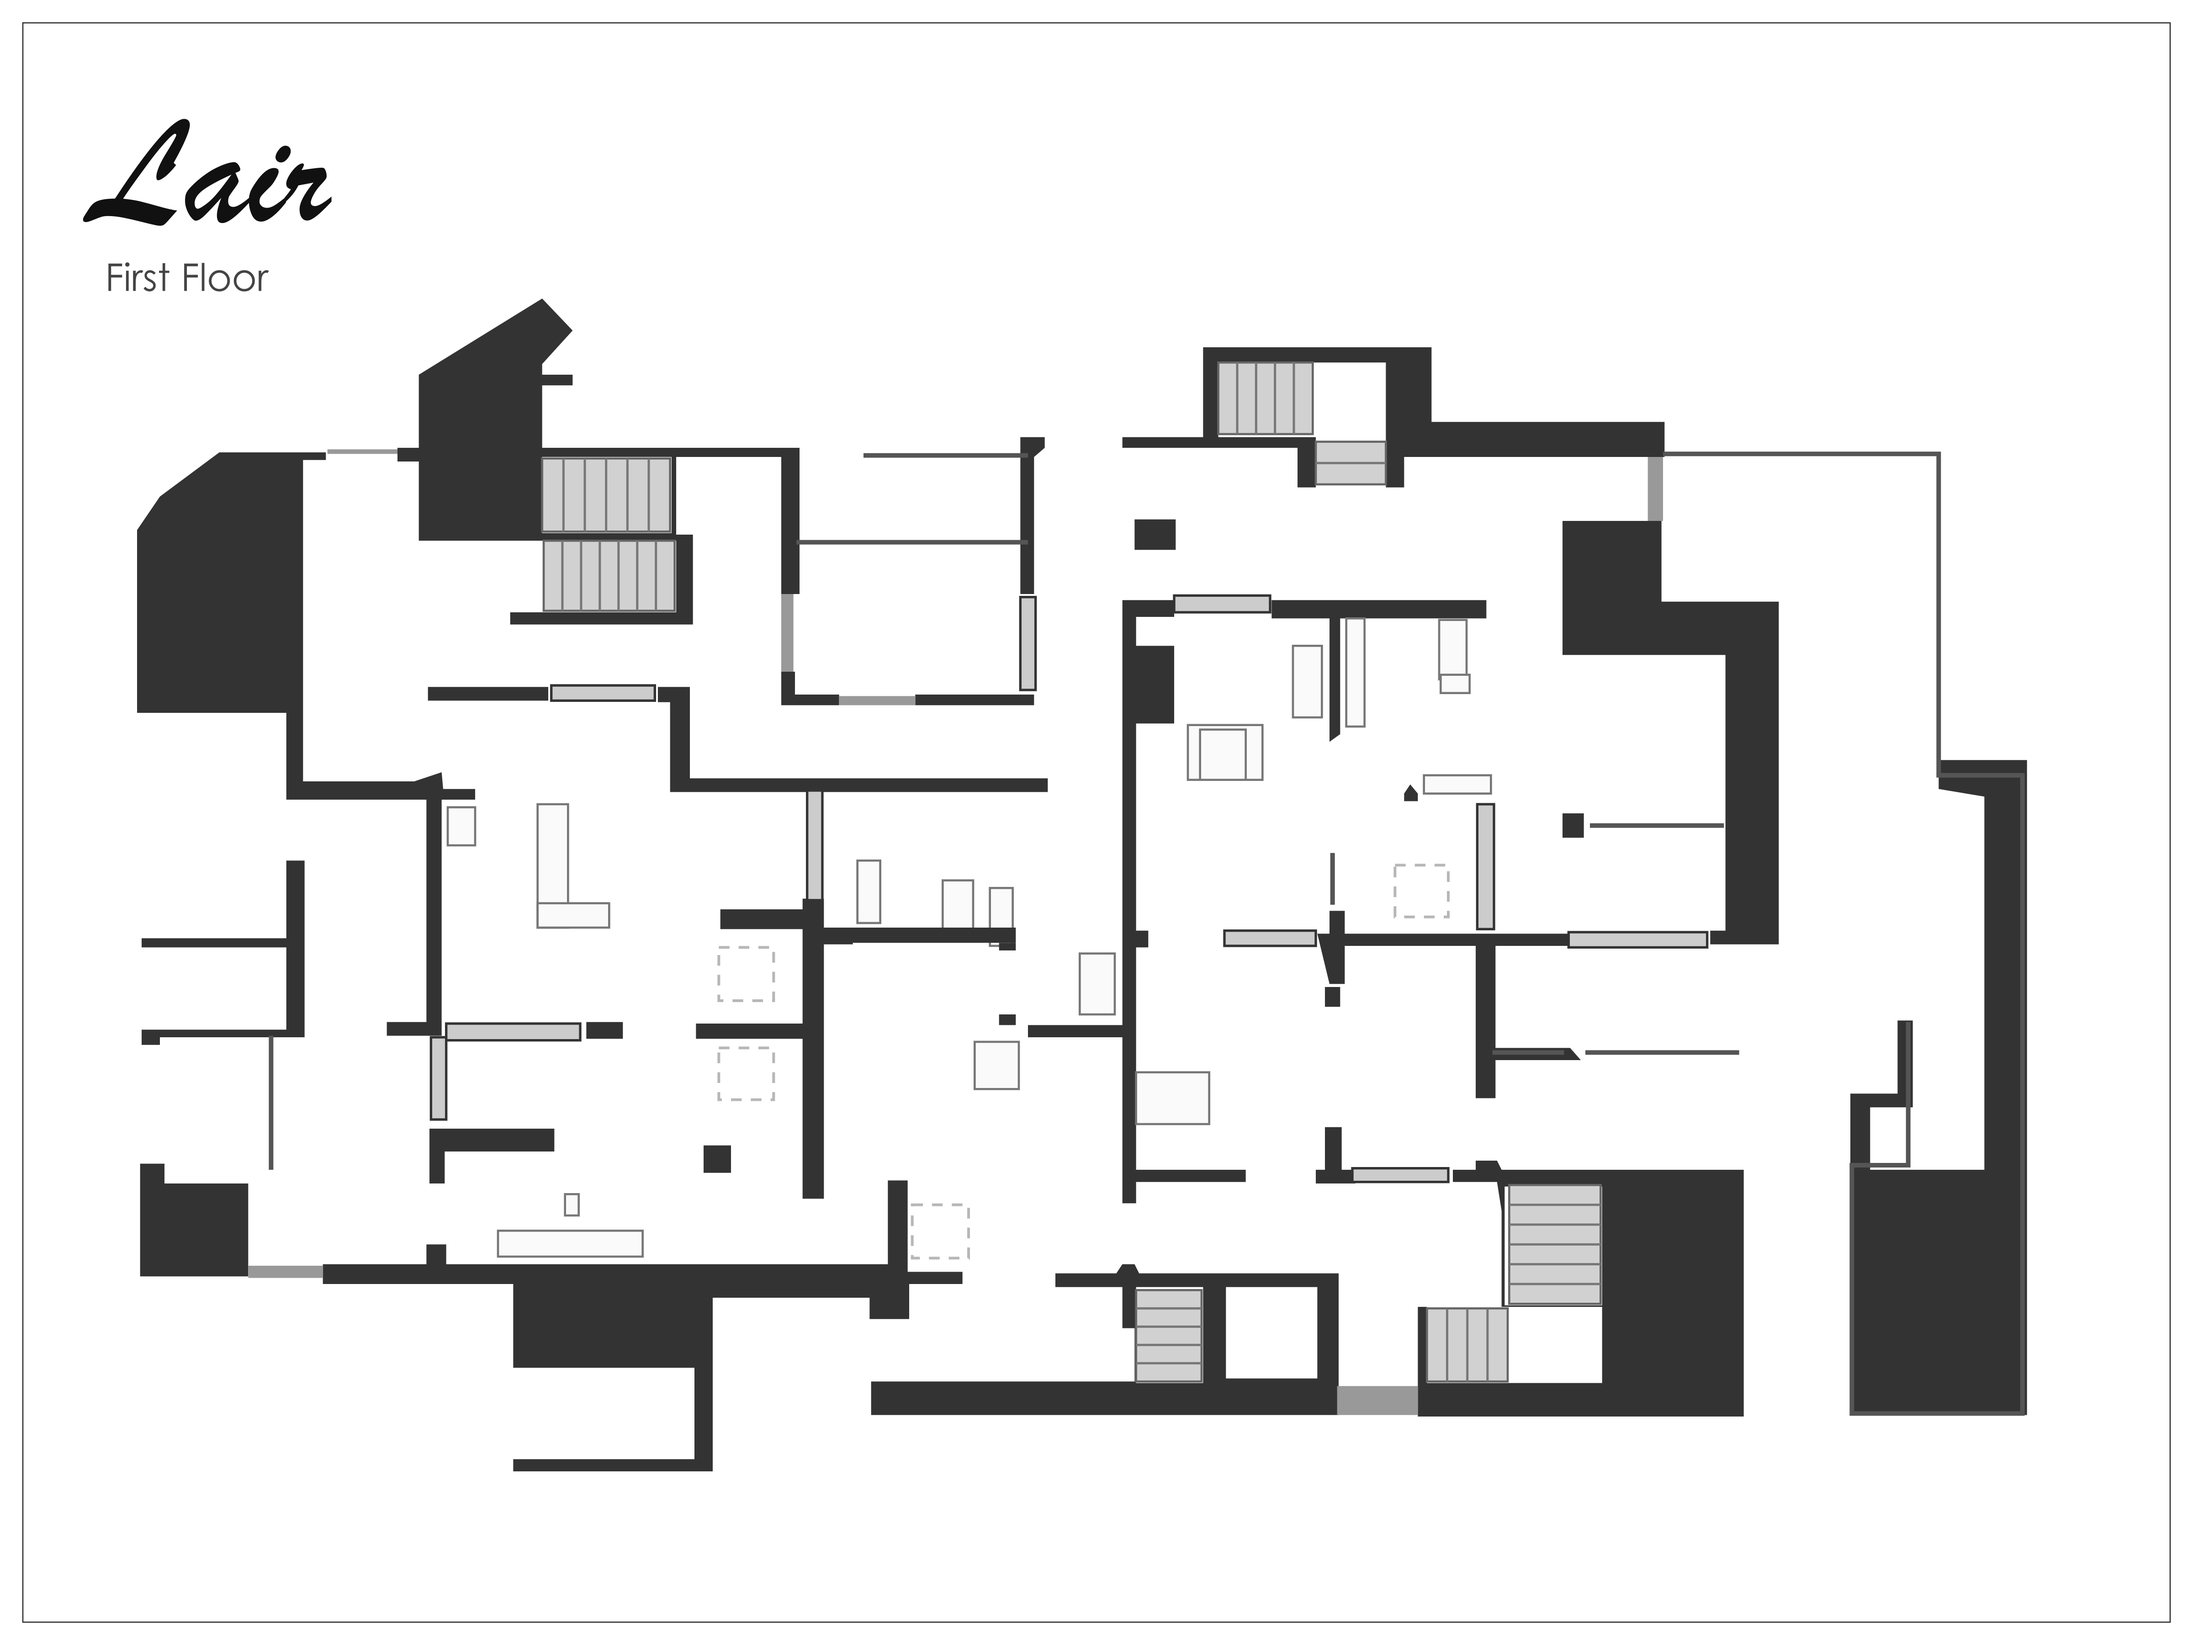
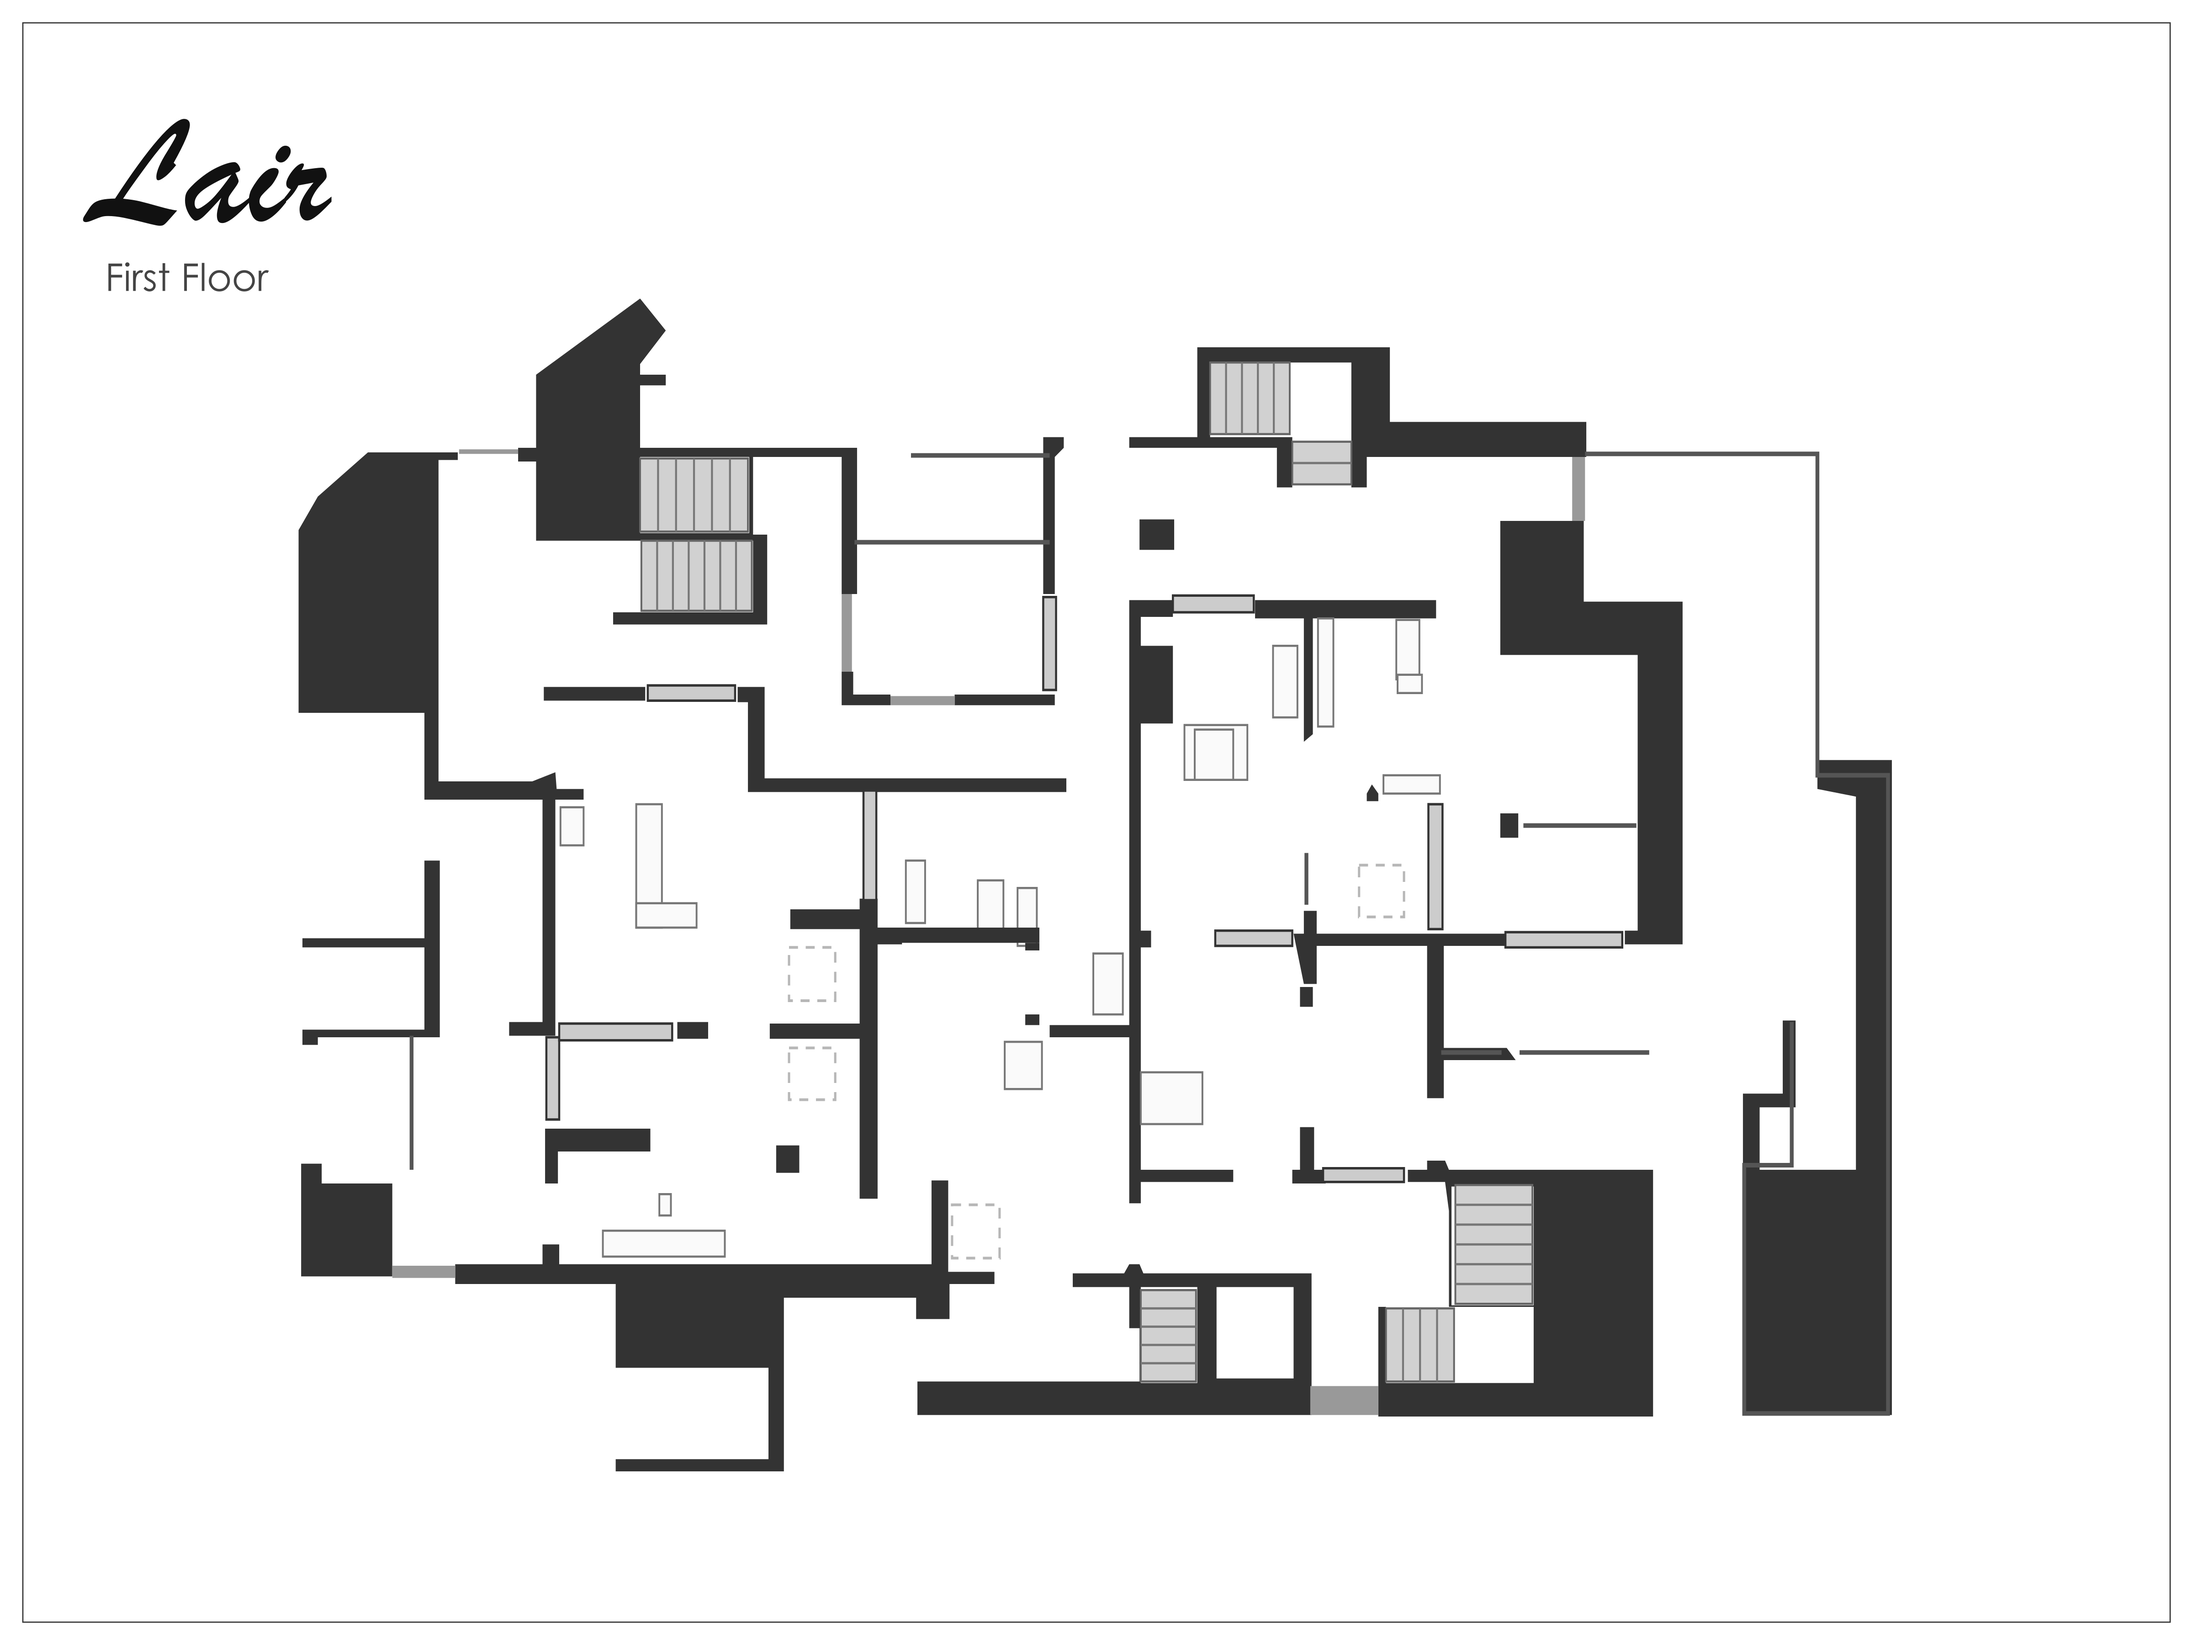
Correct Lair's east-west stretch to one isotropic scale
Replay movement fits the Lair drawings at 64.7 px/m east-west but 54.6 px/m
north-south on all three floors (wall-gap centres and a wall-hit ratio scan
both favour 1.19 over 1.00). The drawing group of each SVG is now scaled
0.843x east-west and centred; heading and frame stay fixed. Callouts move
with the drawing.

diff --git a/docs/content.md b/docs/content.md
@@ -56,6 +56,7 @@ Villaの構造変更は地下のみのため、2階・1階はSternab氏の`Villa
 | マップ | 補正前 | 補正内容 |
 | --- | --- | --- |
 | Fortress | 南北方向が1.42倍に圧縮。2階は1階の0.90倍の縮尺で別の位置。2階南東の階段がない | 両階層のSVGを同じ縮尺（54 px/m、4800×3600）へ変換。2階南東にU字階段を追加 |
+| アジト | 3階層とも東西方向が1.19倍に引き伸ばされていた（縦横の縮尺64.7×54.6 px/m） | 3階層のSVGの図形を東西方向に0.843倍し、54.57 px/mの同一縮尺で中央に配置。見出しと枠は固定 |
 
 SVGの階層は、元の図形を保ったまま外側の`world-scale`グループで変換しています。JPEGはsharpでSVGを白背景に合成して書き出します。Fortress・Villa地下は品質95、アジトは品質98で、いずれも色差4:4:4です。
 
